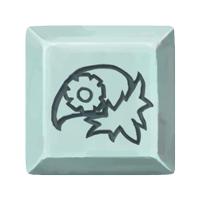
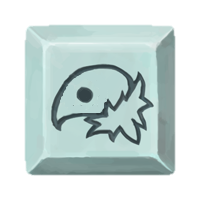
New relic: Flawless Sticks Updated character select screen, added temp art & sfx. Resized Mending Plumage art.

diff --git a/src/main/java/beaked/patches/CharSelectScreenPatch.java b/src/main/java/beaked/patches/CharSelectScreenPatch.java
@@ -1,0 +1,58 @@
+package beaked.patches;
+
+import java.lang.reflect.Field;
+
+import com.badlogic.gdx.math.MathUtils;
+import com.evacipated.cardcrawl.modthespire.lib.SpireInsertPatch;
+import com.evacipated.cardcrawl.modthespire.lib.SpirePatch;
+import com.megacrit.cardcrawl.characters.AbstractPlayer;
+import com.megacrit.cardcrawl.core.CardCrawlGame;
+import com.megacrit.cardcrawl.helpers.Prefs;
+import com.megacrit.cardcrawl.helpers.SaveHelper;
+import com.megacrit.cardcrawl.helpers.ScreenShake;
+import com.megacrit.cardcrawl.screens.charSelect.CharacterOption;
+import com.megacrit.cardcrawl.screens.charSelect.CharacterSelectScreen;
+
+@SpirePatch(cls="com.megacrit.cardcrawl.screens.charSelect.CharacterOption", method="updateHitbox")
+public class CharSelectScreenPatch {
+
+    @SpireInsertPatch(rloc=37)
+    public static void Insert(Object __obj_instance) {
+        Field maxAscensionLevel;
+        try {
+            Prefs pref = null;
+            AbstractPlayer.PlayerClass chosenClass = CardCrawlGame.chosenCharacter;
+            if (chosenClass == BeakedEnum.BEAKED_THE_CULTIST) {
+                pref = SaveHelper.getPrefs(chosenClass.toString());
+                CardCrawlGame.sound.playA("VO_CULTIST_1C", MathUtils.random(-0.2f, 0.2f));
+                CardCrawlGame.screenShake.shake(ScreenShake.ShakeIntensity.LOW, ScreenShake.ShakeDur.SHORT, false);
+
+                CharacterOption obj = (CharacterOption) __obj_instance;
+                maxAscensionLevel = obj.getClass().getDeclaredField("maxAscensionLevel");
+                maxAscensionLevel.setAccessible(true);
+
+                CardCrawlGame.mainMenuScreen.charSelectScreen.ascensionLevel = pref.getInteger("ASCENSION_LEVEL", 1);
+                if (15 < CardCrawlGame.mainMenuScreen.charSelectScreen.ascensionLevel) {
+                    CardCrawlGame.mainMenuScreen.charSelectScreen.ascensionLevel = 15;
+                }
+                maxAscensionLevel.set(obj, pref.getInteger("ASCENSION_LEVEL", 1));
+                if (15 < maxAscensionLevel.getInt(obj)) {
+                    maxAscensionLevel.set(obj, 15);
+                }
+                int ascensionLevel = CardCrawlGame.mainMenuScreen.charSelectScreen.ascensionLevel;
+                if (ascensionLevel > maxAscensionLevel.getInt(obj)) {
+                    ascensionLevel = maxAscensionLevel.getInt(obj);
+                }
+                if (ascensionLevel > 0) {
+                    CardCrawlGame.mainMenuScreen.charSelectScreen.ascLevelInfoString = CharacterSelectScreen.A_TEXT[ascensionLevel - 1];
+                }
+                else {
+                    CardCrawlGame.mainMenuScreen.charSelectScreen.ascLevelInfoString = "";
+                }
+            }
+        } catch (NoSuchFieldException | IllegalAccessException | SecurityException | IllegalArgumentException e) {
+            e.printStackTrace();
+        }
+    }
+
+}

diff --git a/src/main/java/beaked/relics/FlawlessSticks.java b/src/main/java/beaked/relics/FlawlessSticks.java
@@ -1,0 +1,45 @@
+package beaked.relics;
+
+import basemod.abstracts.CustomRelic;
+import beaked.cards.AbstractWitherCard;
+import com.badlogic.gdx.graphics.Texture;
+import com.megacrit.cardcrawl.actions.common.ExhaustSpecificCardAction;
+import com.megacrit.cardcrawl.actions.common.RelicAboveCreatureAction;
+import com.megacrit.cardcrawl.cards.AbstractCard;
+import com.megacrit.cardcrawl.dungeons.AbstractDungeon;
+import com.megacrit.cardcrawl.monsters.AbstractMonster;
+import com.megacrit.cardcrawl.relics.AbstractRelic;
+
+public class FlawlessSticks extends CustomRelic {
+    public static final String ID = "FlawlessSticks";
+
+    public FlawlessSticks() {
+        super(ID, new Texture("img/relics/" + ID + ".png"),
+                RelicTier.BOSS, LandingSound.SOLID);
+    }
+
+	@Override
+    public void atBattleStartPreDraw() {
+        boolean foundCard = false;
+        for (AbstractCard c : AbstractDungeon.player.drawPile.group) {
+            if (c instanceof AbstractWitherCard && ((AbstractWitherCard) c).isDepleted) {
+                foundCard = true;
+                AbstractDungeon.actionManager.addToTop(new ExhaustSpecificCardAction(c,AbstractDungeon.player.drawPile,true));
+            }
+        }
+        if (foundCard){
+            this.flash();
+            AbstractDungeon.actionManager.addToBottom(new RelicAboveCreatureAction(AbstractDungeon.player,this));
+        }
+    }
+
+    @Override
+    public String getUpdatedDescription() {
+        return DESCRIPTIONS[0];
+    }
+
+    @Override
+    public AbstractRelic makeCopy() {
+        return new FlawlessSticks();
+    }
+}

diff --git a/src/main/java/beaked/Beaked.java b/src/main/java/beaked/Beaked.java
@@ -7,6 +7,7 @@ import beaked.cards.*;
 import beaked.characters.BeakedTheCultist;
 import beaked.patches.AbstractCardEnum;
 import beaked.patches.BeakedEnum;
+import beaked.relics.FlawlessSticks;
 import beaked.relics.MendingPlumage;
 import com.megacrit.cardcrawl.actions.animations.TalkAction;
 import com.megacrit.cardcrawl.actions.utility.SFXAction;
@@ -67,7 +68,7 @@ public class Beaked implements PostInitializeSubscriber,
 
     // beaked assets
     private static final String BEAKED_BUTTON = "charSelect/beakedButton.png";
-    private static final String BEAKED_PORTRAIT = "charSelect/beakedPortraitBG.jpg";
+    private static final String BEAKED_PORTRAIT = "charSelect/beakedPortrait.jpg";
     public static final String BEAKED_SHOULDER_1 = "char/beaked/shoulder.png";
     public static final String BEAKED_SHOULDER_2 = "char/beaked/shoulder2.png";
     public static final String BEAKED_CORPSE = "char/beaked/corpse.png";
@@ -140,6 +141,7 @@ public class Beaked implements PostInitializeSubscriber,
 
         // Add relics
         BaseMod.addRelicToCustomPool(new MendingPlumage(), AbstractCardEnum.BEAKED_YELLOW.toString());
+        BaseMod.addRelicToCustomPool(new FlawlessSticks(), AbstractCardEnum.BEAKED_YELLOW.toString());
 
         logger.info("done editting relics");
     }

diff --git a/src/main/java/beaked/characters/BeakedTheCultist.java b/src/main/java/beaked/characters/BeakedTheCultist.java
@@ -83,7 +83,10 @@ public class BeakedTheCultist extends CustomPlayer {
     }
 
     public static CharSelectInfo getLoadout() {
-        return new CharSelectInfo("Beaked the Cultist", " ",
+        return new CharSelectInfo("Beaked the Cultist",
+                "Blessed by the cult of the Awakened One, then cursed for stealing sacred knowledge. NL " +
+                        "Relies on healing and familiar techniques to power through, NL " +
+                        "resorting to potent but hard to replicate spells.",
                 50, 50, 0, 99, 5,
                 BeakedEnum.BEAKED_THE_CULTIST, getStartingRelics(), getStartingDeck(), false);
     }

diff --git a/src/main/java/beaked/cards/AbstractWitherCard.java b/src/main/java/beaked/cards/AbstractWitherCard.java
@@ -34,6 +34,13 @@ public abstract class AbstractWitherCard extends CustomCard {
     }
 
     @Override
+    public AbstractCard makeStatEquivalentCopy(){
+        AbstractCard c = super.makeStatEquivalentCopy();
+        if (c.misc == 0) ((AbstractWitherCard)c).onDepleted();
+        return c;
+    }
+
+    @Override
     public void applyPowers() {
         if (!this.isDepleted && ((this.baseMisc > 0 && this.misc <= 0) || (this.baseMisc < 0 && this.misc >= 0))){
             onDepleted();

diff --git a/src/main/java/beaked/relics/MendingPlumage.java b/src/main/java/beaked/relics/MendingPlumage.java
@@ -12,7 +12,7 @@ public class MendingPlumage extends CustomRelic {
     private static final int HEAL_PER_CARD = 1;
 
     public MendingPlumage() {
-        super(ID, new Texture("img/relics/Mending_PlumageBETA.png"),
+        super(ID, new Texture("img/relics/" + ID + ".png"),
                 RelicTier.STARTER, LandingSound.MAGICAL);
     }
 
